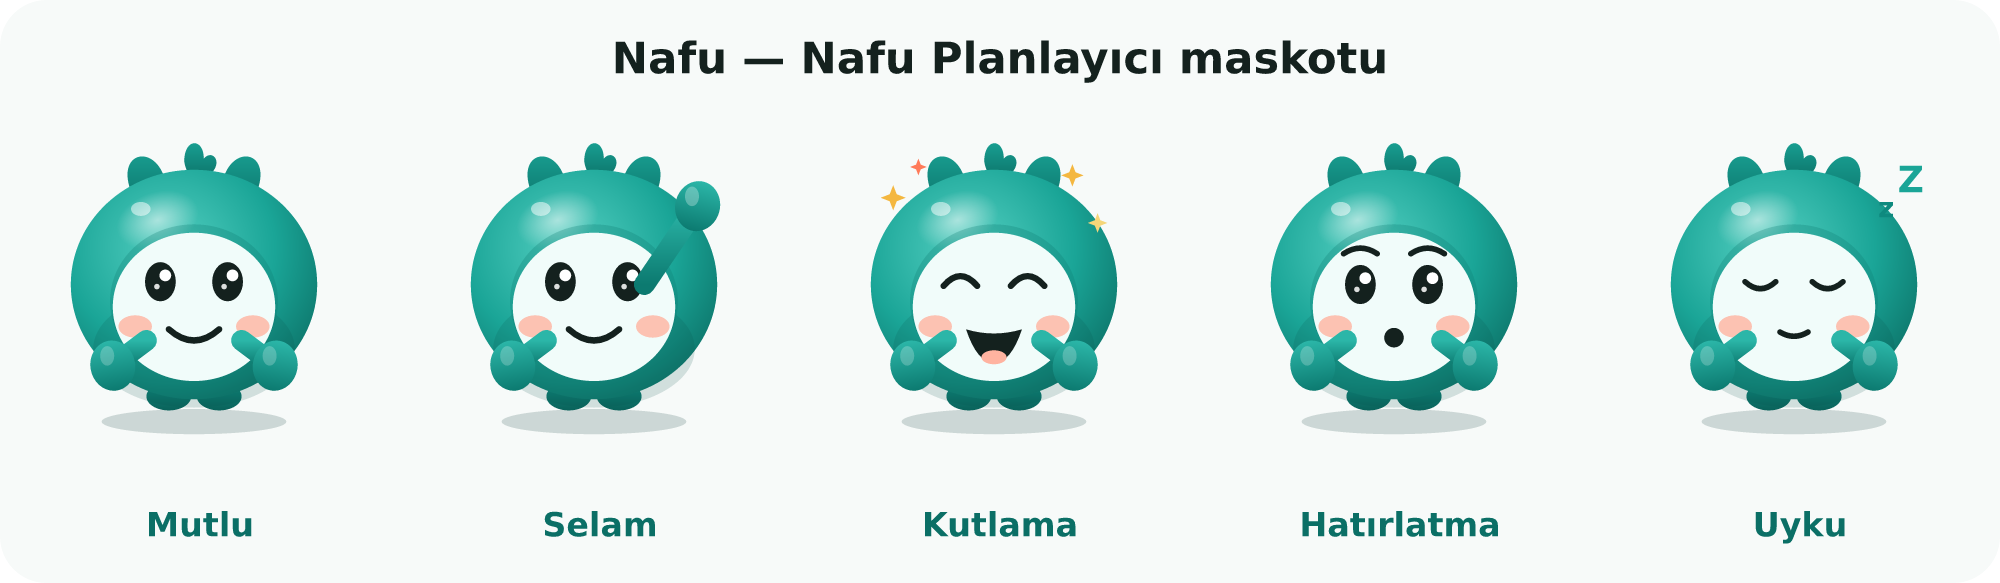
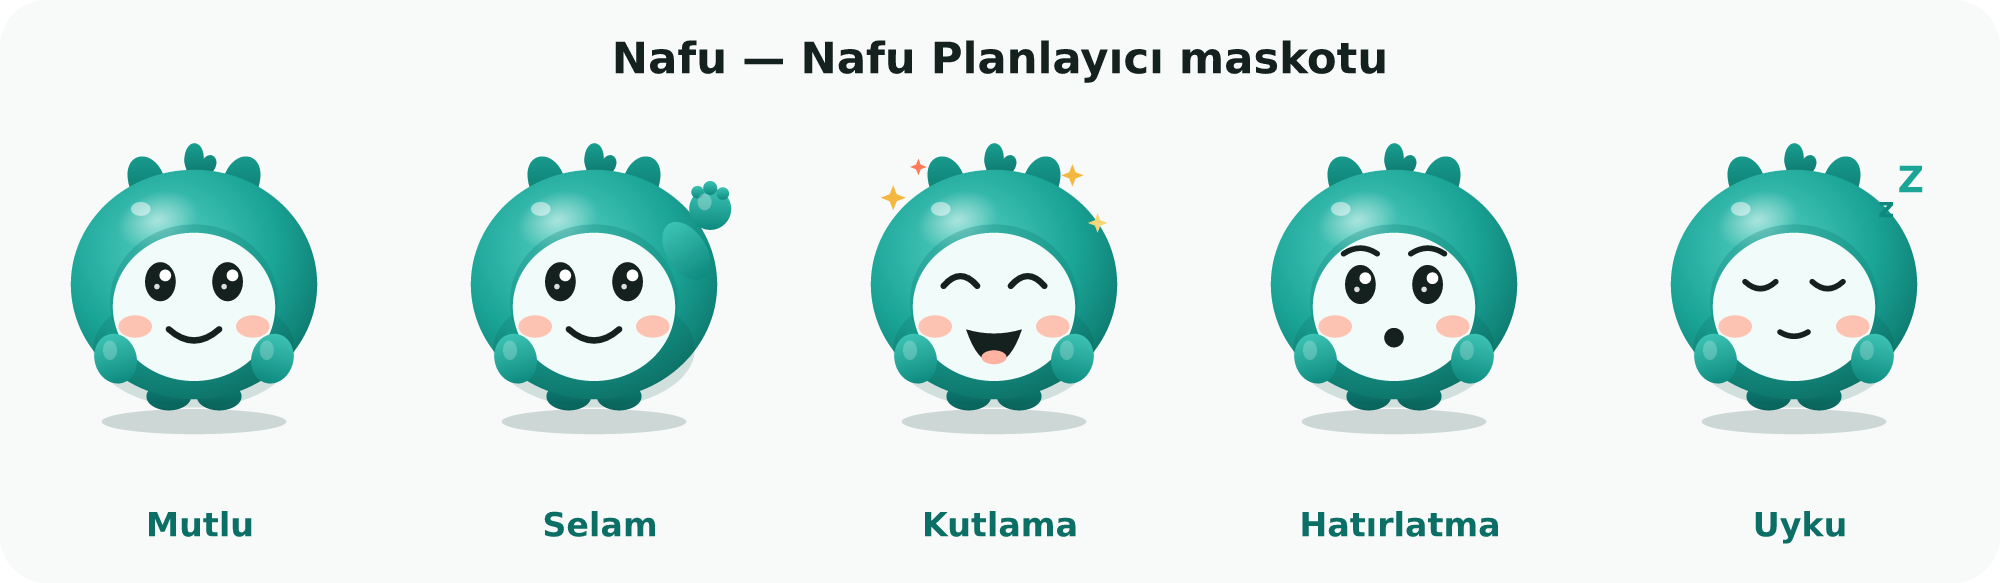
Nafu ellerini yenile: tutarlı tombul tek parça patiler, daha iyi selam
- Dinlenen patiler tek parça tombul nub'a dönüştü (ince çizgi + blob kaldırıldı)
- Selam kolu: gövdeye yakın tombul ön kol + açık pati + minik parmaklar
- Daha açık ve yumuşak kol gradyanı; tüm ifadelerde tutarlı eller
- Önizleme görselleri güncellendi

https://claude.ai/code/session_019WGL5HgRB48T4nXcLZYDE5

diff --git a/src/ui/mascot/Nafu.tsx b/src/ui/mascot/Nafu.tsx
@@ -171,8 +171,8 @@ export function Nafu({ size = 160, expression = 'happy', animated = true }: Nafu
             <Stop offset="1" stopColor="#0A6A60" />
           </RadialGradient>
           <LinearGradient id="nafuArm" x1="0" y1="0" x2="0" y2="1">
-            <Stop offset="0" stopColor="#2BB6A8" />
-            <Stop offset="1" stopColor="#0C7A70" />
+            <Stop offset="0" stopColor="#3CC3B4" />
+            <Stop offset="1" stopColor="#0E8A7F" />
           </LinearGradient>
           <LinearGradient id="nafuTuft" x1="0" y1="0" x2="0" y2="1">
             <Stop offset="0" stopColor={palette.teal[500]} />
@@ -229,13 +229,9 @@ export function Nafu({ size = 160, expression = 'happy', animated = true }: Nafu
         {/* Yüz (gözler + ağız) */}
         {renderFace(expression, blink)}
 
-        {/* Kollar / patiler (önde, belirgin) */}
-        <Arm shoulder={[76, 160]} paw={[52, 178]} rot={-10} />
-        {expression === 'wave' ? (
-          <Arm shoulder={[146, 120]} paw={[184, 64]} rot={14} open />
-        ) : (
-          <Arm shoulder={[144, 160]} paw={[168, 178]} rot={10} />
-        )}
+        {/* Kollar / patiler (tek parça, tombul) */}
+        {restPaw(54, 173, -16)}
+        {expression === 'wave' ? waveArm() : restPaw(166, 173, 16)}
 
         {/* Kutlama parıltıları */}
         {expression === 'celebrate' ? renderSparkles() : null}
@@ -256,31 +252,26 @@ export function Nafu({ size = 160, expression = 'happy', animated = true }: Nafu
   );
 }
 
-function Arm({
-  shoulder,
-  paw,
-  rot,
-  open = false,
-}: {
-  shoulder: [number, number];
-  paw: [number, number];
-  rot: number;
-  open?: boolean;
-}) {
-  const [sx, sy] = shoulder;
-  const [px, py] = paw;
+/** Dinlenen tombul pati (tek parça). */
+function restPaw(cx: number, cy: number, tilt: number) {
   return (
     <G>
-      <Path d={`M${sx} ${sy} L${px} ${py}`} stroke={ARM} strokeWidth={15} strokeLinecap="round" />
-      <Ellipse
-        cx={px}
-        cy={py}
-        rx={16}
-        ry={18}
-        fill={ARM}
-        transform={`rotate(${rot} ${px} ${py})`}
-      />
-      <Ellipse cx={px - 4} cy={py - 7} rx={5} ry={7} fill="#FFFFFF" opacity={open ? 0.28 : 0.22} />
+      <Ellipse cx={cx} cy={cy} rx={15} ry={18} fill={ARM} transform={`rotate(${tilt} ${cx} ${cy})`} />
+      <Ellipse cx={cx - 4} cy={cy - 6} rx={5} ry={7} fill="#FFFFFF" opacity={0.22} />
+    </G>
+  );
+}
+
+/** Selam veren kalkık kol: tombul ön kol + açık pati + minik parmaklar. */
+function waveArm() {
+  return (
+    <G>
+      <Ellipse cx={176} cy={96} rx={14} ry={23} fill={ARM} transform="rotate(-33 176 96)" />
+      <Circle cx={193} cy={66} r={15} fill={ARM} />
+      <Circle cx={184} cy={54} r={4.5} fill={ARM} />
+      <Circle cx={193} cy={51} r={5} fill={ARM} />
+      <Circle cx={202} cy={55} r={4.5} fill={ARM} />
+      <Ellipse cx={189} cy={61} rx={5} ry={6} fill="#FFFFFF" opacity={0.28} />
     </G>
   );
 }
